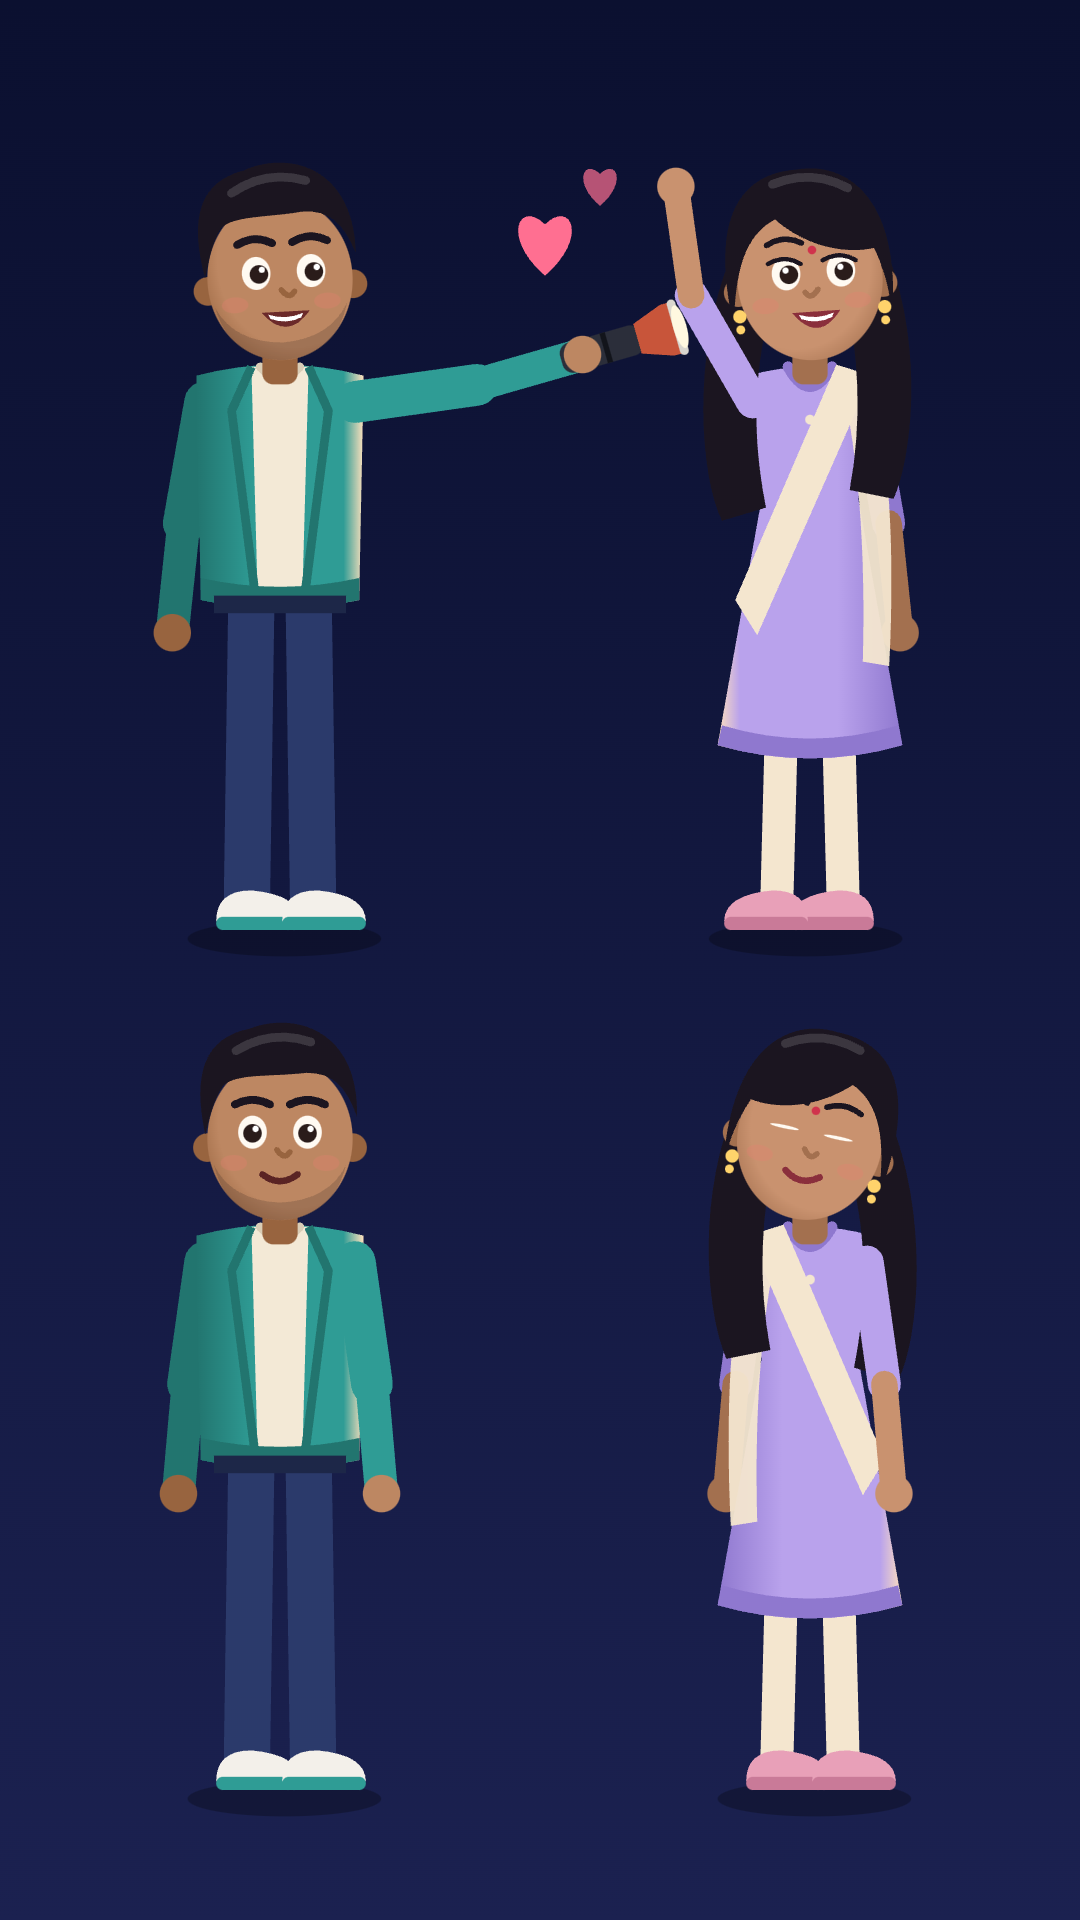
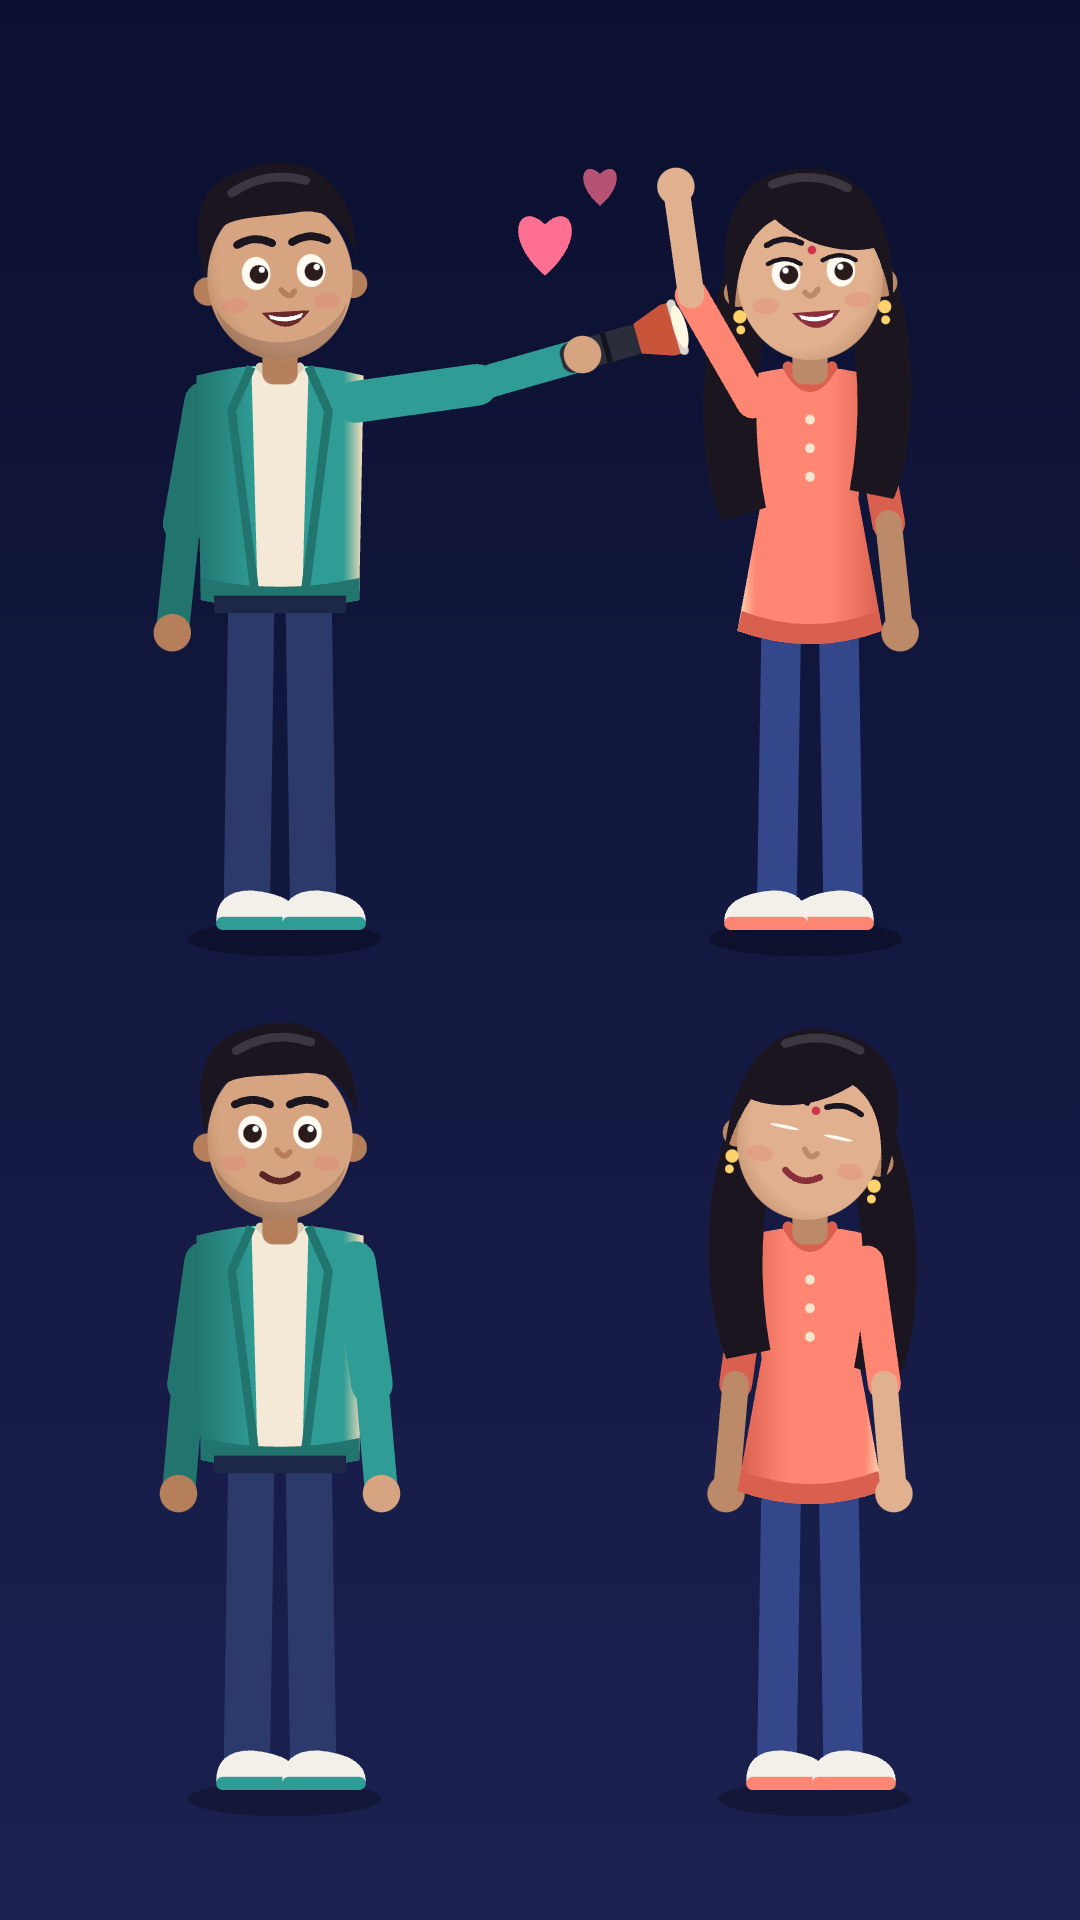
Internet short: dress 1 chosen, slightly fairer skin tones for the couple
Claude-Session: https://claude.ai/code/session_01GXcKc3rwQcfrK3291f8HAB

diff --git a/internet/v3/src/dusk/Adult.tsx b/internet/v3/src/dusk/Adult.tsx
@@ -5,8 +5,8 @@ import type { StickPose } from './Dusk';
 /* College-age couple (original designs). Origin = feet centre, about 335 units tall, adult proportions:
    smaller head, longer legs, shaped clothes. Same pose interface as the earlier rigs. */
 const C = {
-  man: { skin: '#bd8762', skinSh: '#98643f', hair: '#1b1520', top: '#2f9c95', topSh: '#22756f', inner: '#f3e9d6', bottom: '#2b3a6b', shoe: '#f3f0ea', sole: '#2f9c95' },
-  woman: { skin: '#c9926f', skinSh: '#a3704f', hair: '#1b1520', top: '#b9a2ec', topSh: '#8f78cf', inner: '#f4e6cf', bottom: '#f4e6cf', shoe: '#e8a0b8', sole: '#c97a98' },
+  man: { skin: '#d6a481', skinSh: '#b47f5a', hair: '#1b1520', top: '#2f9c95', topSh: '#22756f', inner: '#f3e9d6', bottom: '#2b3a6b', shoe: '#f3f0ea', sole: '#2f9c95' },
+  woman: { skin: '#e0b08f', skinSh: '#bd8a69', hair: '#1b1520', top: '#b9a2ec', topSh: '#8f78cf', inner: '#f4e6cf', bottom: '#f4e6cf', shoe: '#e8a0b8', sole: '#c97a98' },
 };
 /* dress options for her: 1 short kurti + jeans, 2 top + long skirt, 3 long anarkali + dupatta, 0 the first lavender kurti */
 export const DRESS: Record<number, { top: string; topSh: string; bottom: string; shoe: string; sole: string; hem: number; hw: number; legW: number; dup: boolean; skirt?: string; skirtSh?: string }> = {
